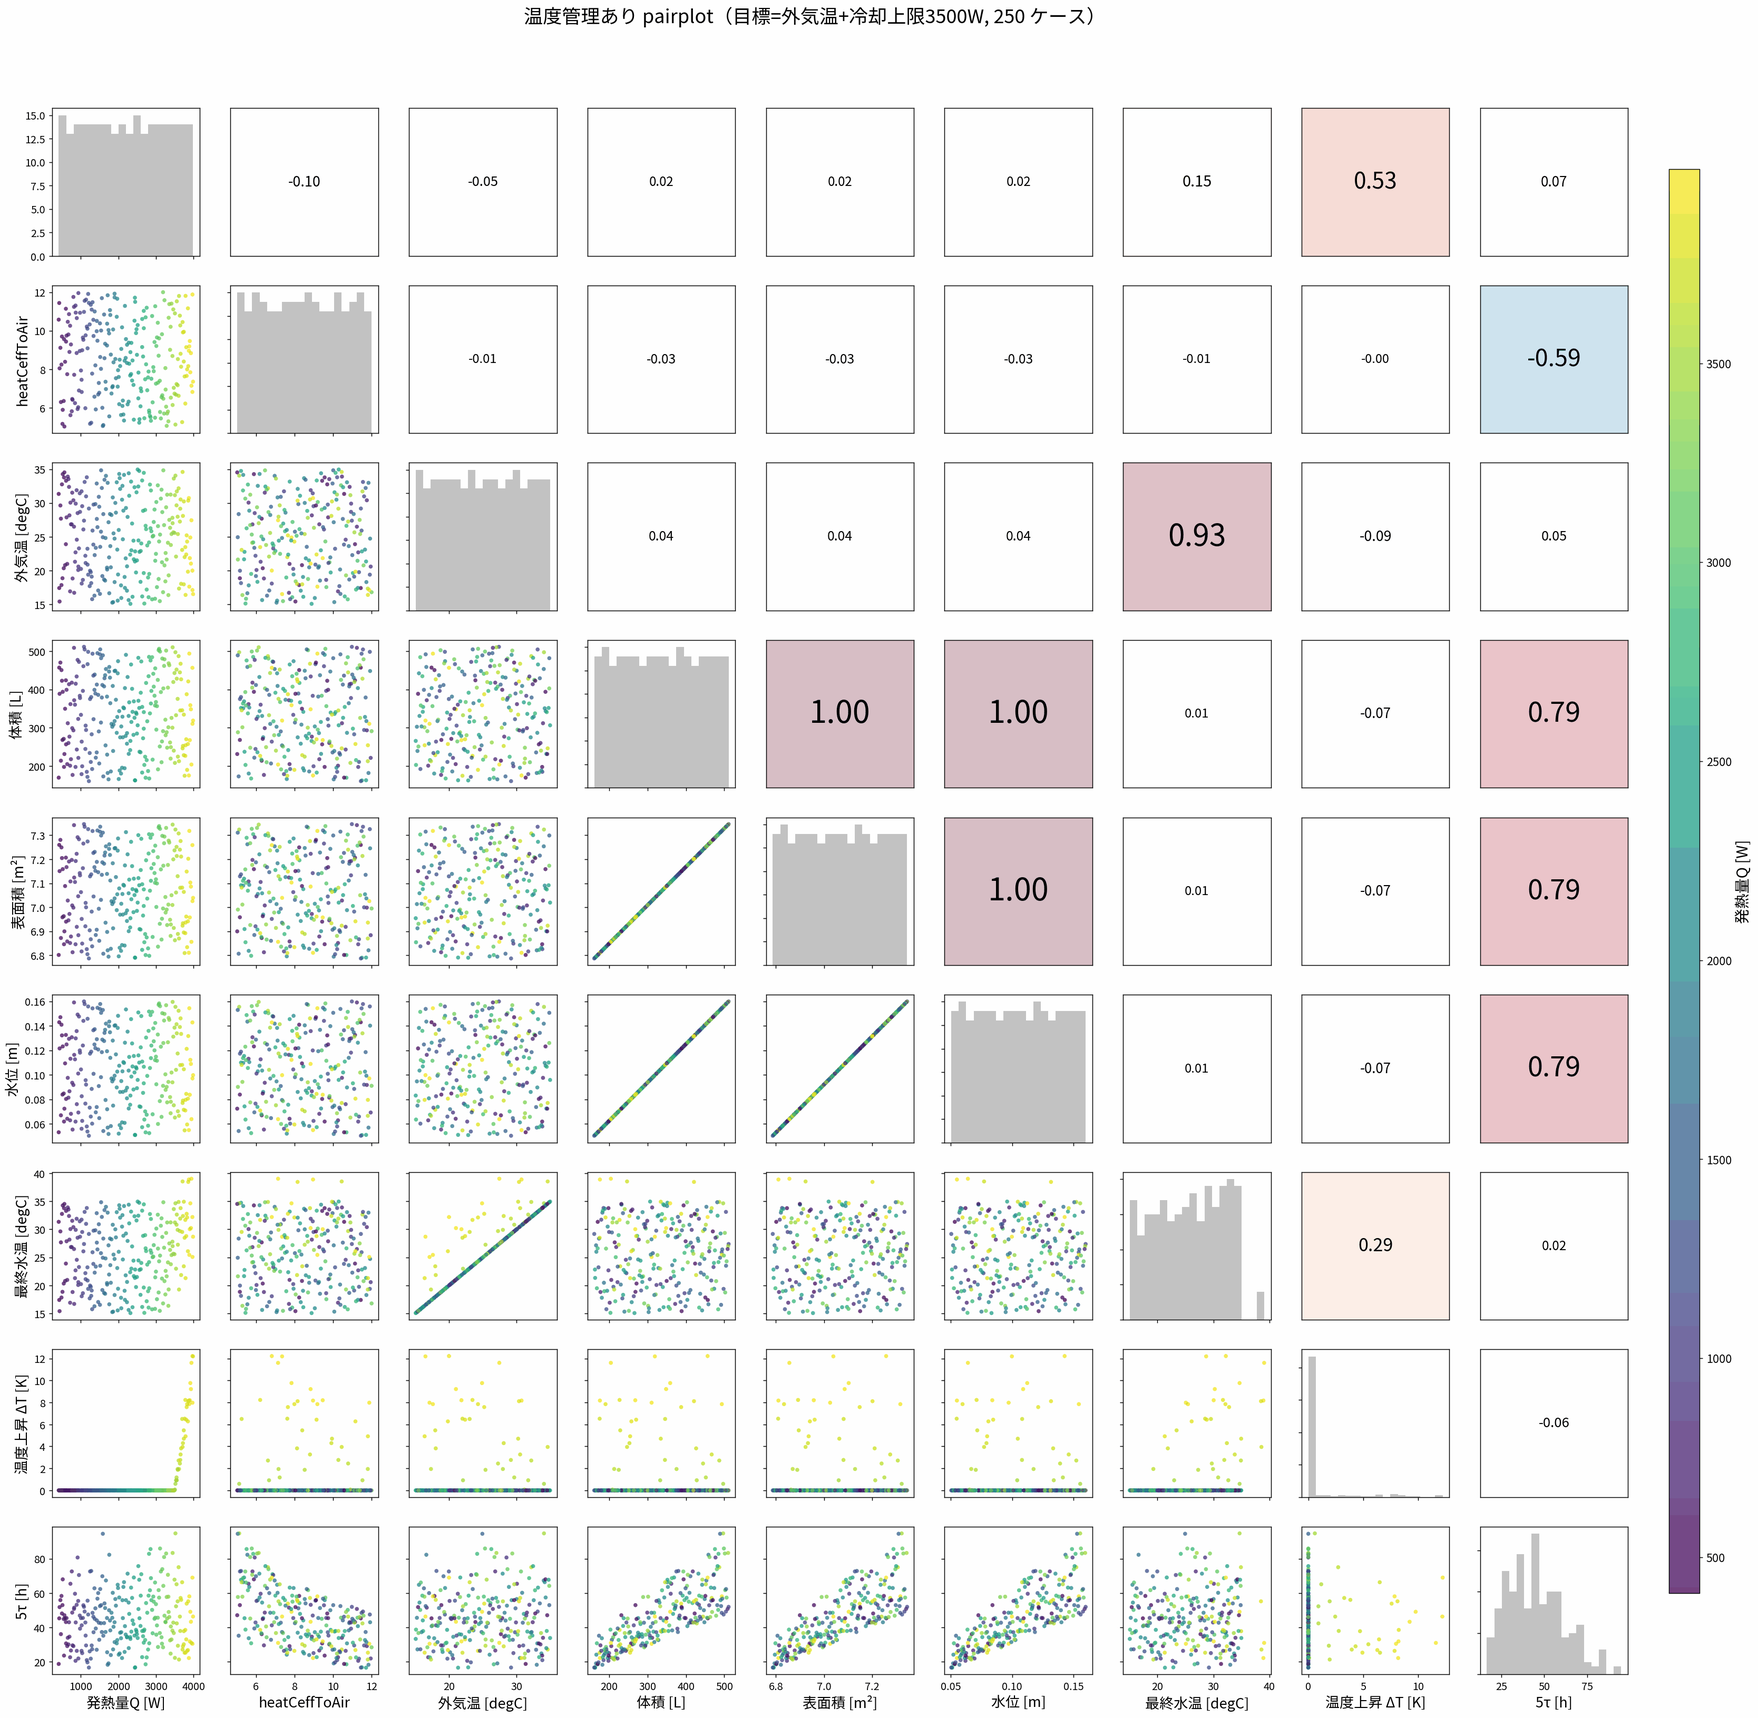
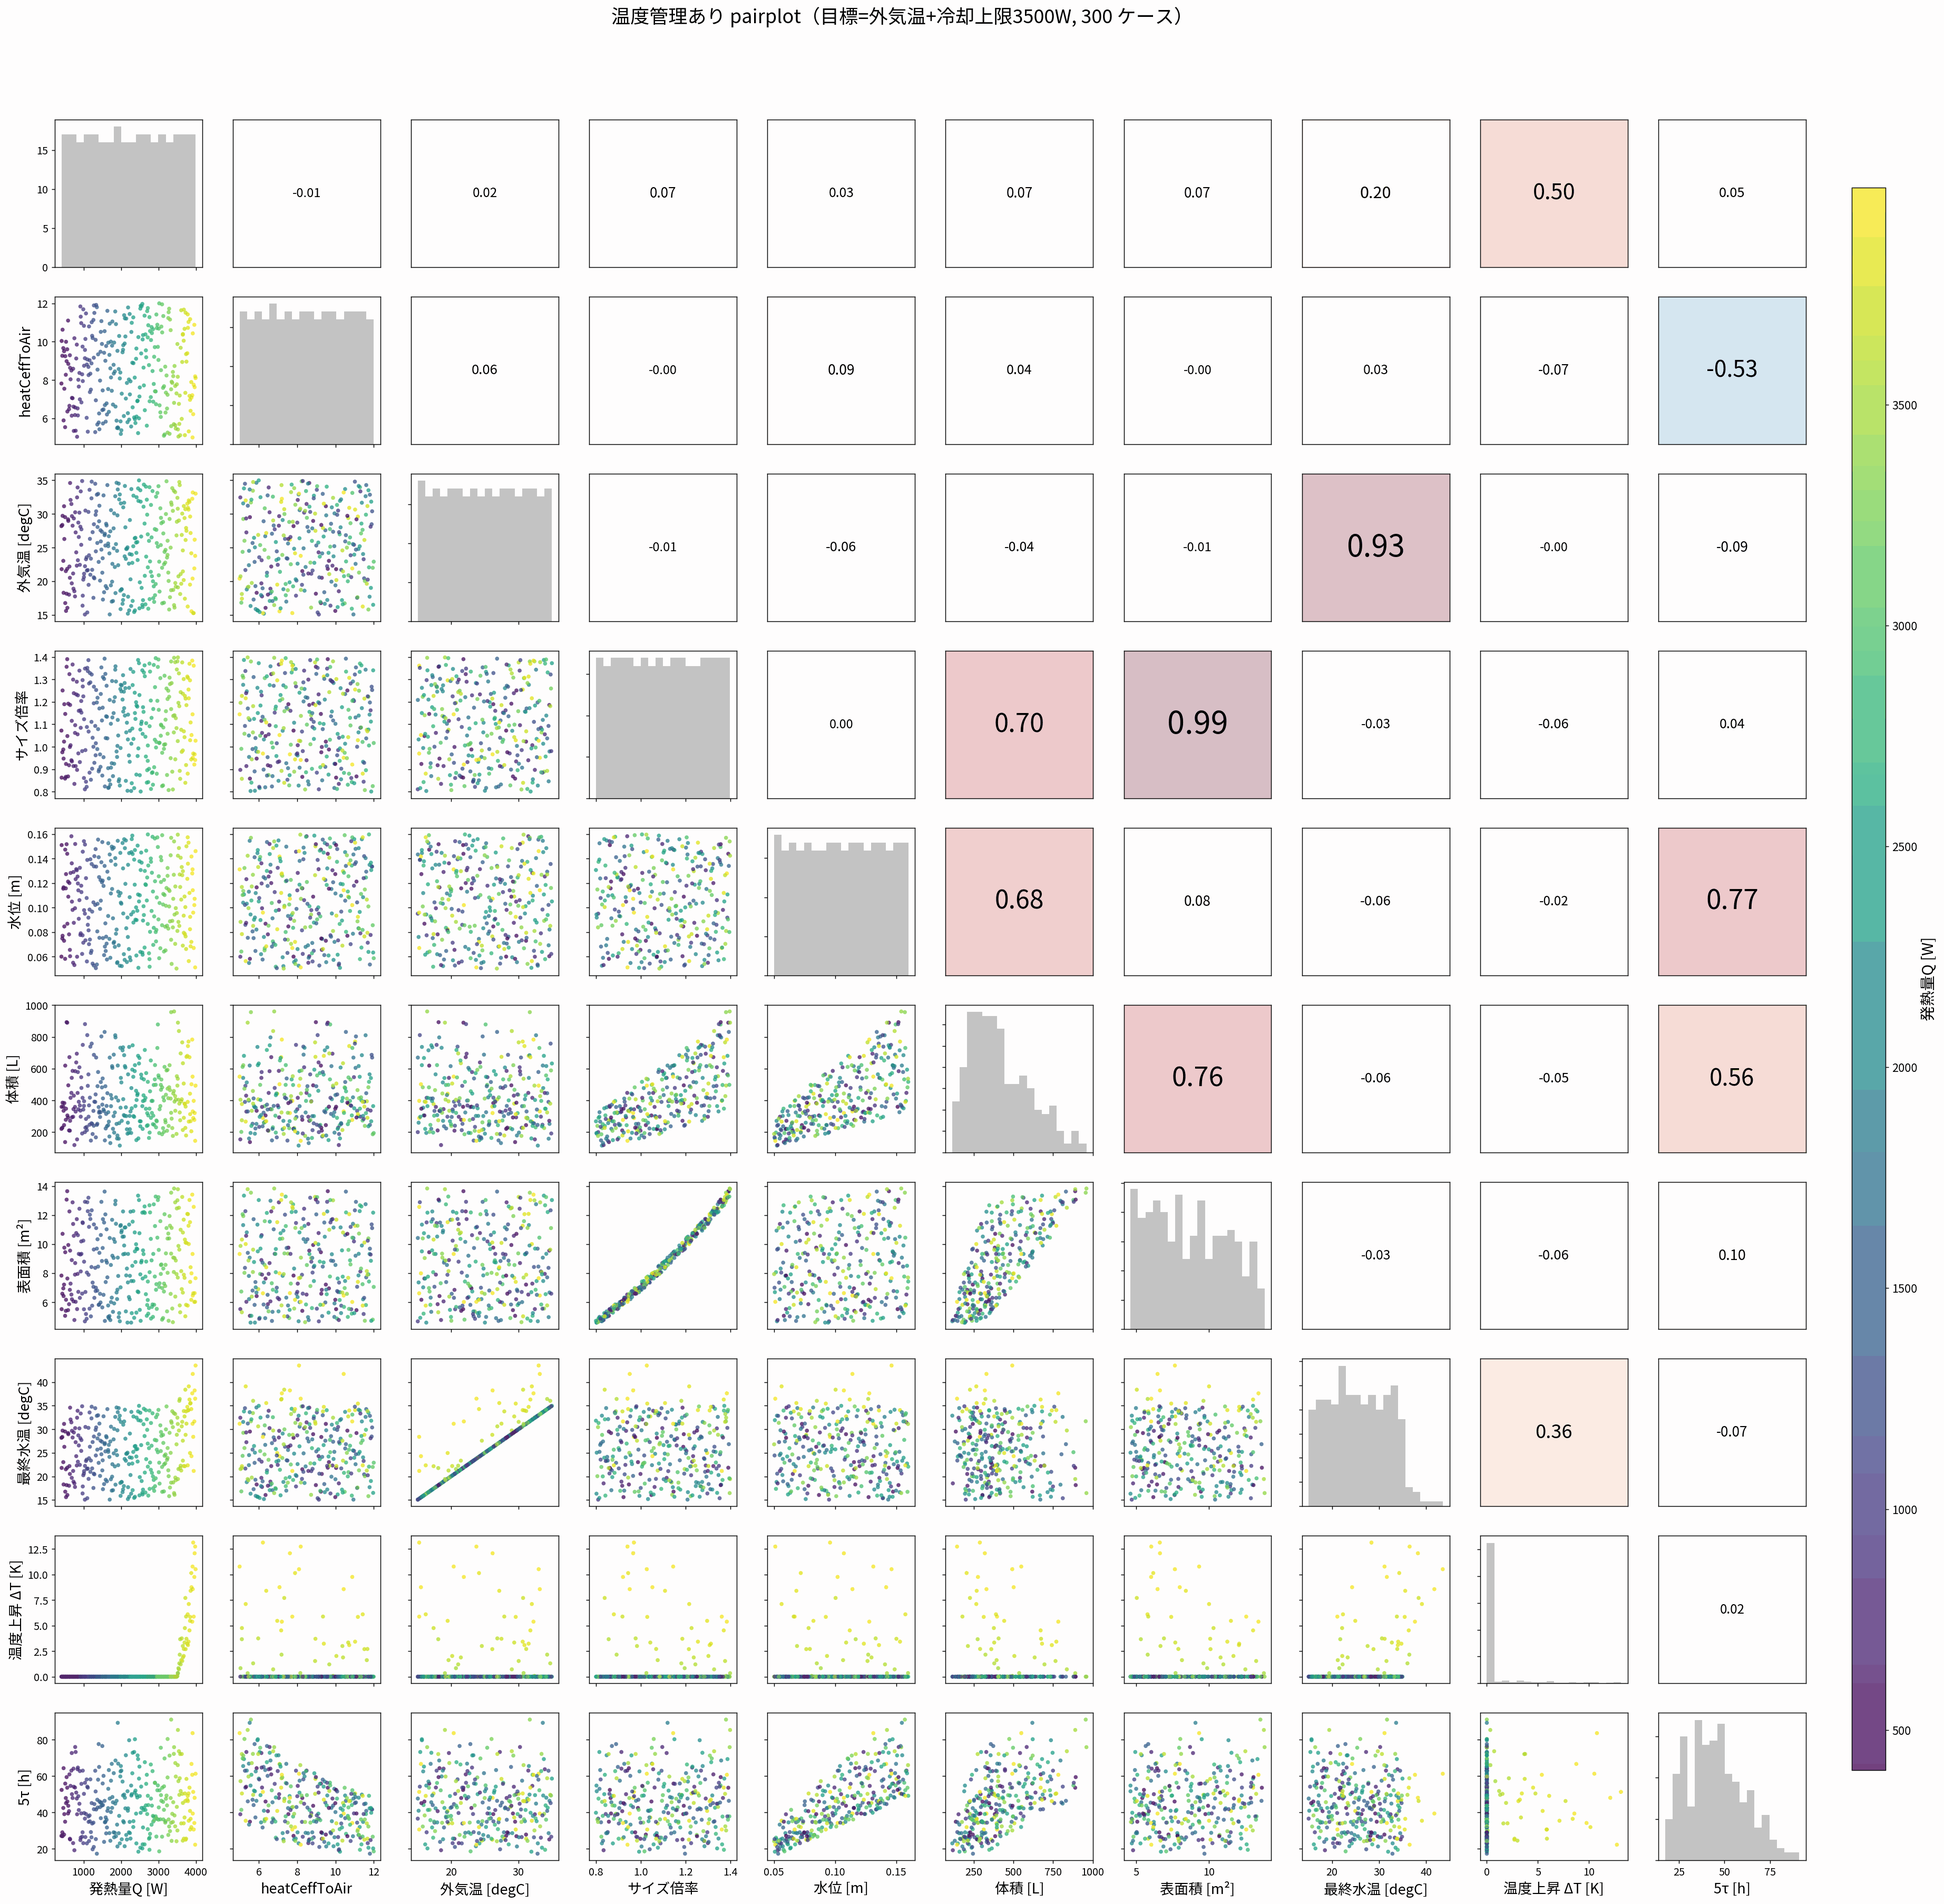
pairパラスタに サイズ倍率(Lx,Ly)を追加: 表面積↔ΔT=-0.43(負相関)が可視化
- 水位(体積/表面積/水位に効く)に加え サイズ倍率(体積/表面積に効く)を因子化。600ケース
- 表面積↑→温度上昇ΔT↓ の物理が相関で見えるように

Claude-Session: https://claude.ai/code/session_012Bb2Gqoegt25dmMh1N6dBX

diff --git a/003_tank_para/pairplot_control.py b/003_tank_para/pairplot_control.py
@@ -51,31 +51,40 @@ A2 = Lx2_1 * Ly2_1 + Lx2_2 * Ly2_2
 A3 = Lx3_1 * Ly3_1
 
 
-def ua(h_air, level, h_in=10.0, kground=80.0):
-    UA_air = h_air * (A1 + A2 + A3)
+def _A(size):
+    """size(=Lx,Ly倍率)でスケールした各タンク上面積。"""
+    return A1 * size * size, A2 * size * size, A3 * size * size
+
+
+def ua(h_air, level, size=1.0, h_in=10.0, kground=80.0):
+    a1, a2, a3 = _A(size); s = size
+    UA_air = h_air * (a1 + a2 + a3)
 
     def g(Ain, Ac, Ag):
         return 1 / (1 / (h_in * Ain) + 1 / (Ac * kground / th) + 1 / (h_air * Ag))
-    u1 = g(A1 + Ly1_1 * level, A1 + Lx1_1 * level + Ly1_1 * level, A1 + Ly1_1 * level)
-    a2in = A2 + (Ly2_1 + Lx2_1) * level
-    u2 = g(a2in, A2 + (Lx2_1 + Ly2_1) * level, a2in)
-    a3g = A3 + (Lx3_1 + Ly3_1) * level
+    u1 = g(a1 + Ly1_1 * s * level, a1 + (Lx1_1 + Ly1_1) * s * level, a1 + Ly1_1 * s * level)
+    a2in = a2 + (Ly2_1 + Lx2_1) * s * level
+    u2 = g(a2in, a2 + (Lx2_1 + Ly2_1) * s * level, a2in)
+    a3g = a3 + (Lx3_1 + Ly3_1) * s * level
     u3 = g(a3g, a3g, a3g)
     return UA_air + u1 + u2 + u3
 
 
-def cap(level):
-    return (A1 * level + A2 * level + A3 * 0.9 * level) * rho_w * cp_w
+def cap(level, size=1.0):
+    a1, a2, a3 = _A(size)
+    return (a1 * level + a2 * level + a3 * 0.9 * level) * rho_w * cp_w
 
 
-def volume_L(level):
-    return (A1 * level + A2 * level + A3 * 0.9 * level) * 1000.0   # m3 -> L
+def volume_L(level, size=1.0):
+    a1, a2, a3 = _A(size)
+    return (a1 * level + a2 * level + a3 * 0.9 * level) * 1000.0   # m3 -> L
 
 
-def area_total(level):
+def area_total(level, size=1.0):
     """放熱面積 [m2] = 上面 + 側/底(濡れ面積)。"""
-    A_top = A1 + A2 + A3
-    A_g = (A1 + Ly1_1 * level) + (A2 + (Ly2_1 + Lx2_1) * level) + (A3 + (Lx3_1 + Ly3_1) * level)
+    a1, a2, a3 = _A(size); s = size
+    A_top = a1 + a2 + a3
+    A_g = (a1 + Ly1_1 * s * level) + (a2 + (Ly2_1 + Lx2_1) * s * level) + (a3 + (Lx3_1 + Ly3_1) * s * level)
     return A_top + A_g
 
 
@@ -136,10 +145,11 @@ def main():
     args = ap.parse_args()
     n = args.n
 
-    X = lhs(n, [(400.0, 4000.0), (5.0, 12.0), (0.05, 0.16), (15.0, 35.0)])
-    Q, h_air, level, Tair = X.T
-    UA = np.array([ua(h_air[k], level[k]) for k in range(n)])
-    tau5 = np.array([5 * cap(level[k]) / UA[k] / 3600.0 for k in range(n)])
+    # 因子: 発熱量Q, heatCeffToAir, 水位level, 外気温Tair, サイズ倍率size(=Lx,Ly)
+    X = lhs(n, [(400.0, 4000.0), (5.0, 12.0), (0.05, 0.16), (15.0, 35.0), (0.8, 1.4)])
+    Q, h_air, level, Tair, size = X.T
+    UA = np.array([ua(h_air[k], level[k], size[k]) for k in range(n)])
+    tau5 = np.array([5 * cap(level[k], size[k]) / UA[k] / 3600.0 for k in range(n)])
 
     # なし: ΔT=Q/UA
     # あり: 目標=外気温。冷却上限 Qcool_max まではΔT=0、超えると ΔT=(Q-Qcool_max)/UA
@@ -150,15 +160,15 @@ def main():
     # 2条件を積む
     def stack(a_off, a_on):
         return np.concatenate([a_off, a_on])
-    V = np.array([volume_L(level[k]) for k in range(n)])
-    Ar = np.array([area_total(level[k]) for k in range(n)])
+    V = np.array([volume_L(level[k], size[k]) for k in range(n)])
+    Ar = np.array([area_total(level[k], size[k]) for k in range(n)])
     Tfin_off = Tair + dT_off     # 最終水温(絶対) = 外気温 + 温度上昇
     Tfin_on = Tair + dT_on
-    labels = ["発熱量Q [W]", "heatCeffToAir", "外気温 [degC]", "体積 [L]",
-              "表面積 [m²]", "水位 [m]", "最終水温 [degC]", "温度上昇 ΔT [K]", "5τ [h]"]
+    labels = ["発熱量Q [W]", "heatCeffToAir", "外気温 [degC]", "サイズ倍率", "水位 [m]",
+              "体積 [L]", "表面積 [m²]", "最終水温 [degC]", "温度上昇 ΔT [K]", "5τ [h]"]
 
-    data_off = np.column_stack([Q, h_air, Tair, V, Ar, level, Tfin_off, dT_off, tau5])
-    data_on = np.column_stack([Q, h_air, Tair, V, Ar, level, Tfin_on, dT_on, tau5])
+    data_off = np.column_stack([Q, h_air, Tair, size, level, V, Ar, Tfin_off, dT_off, tau5])
+    data_on = np.column_stack([Q, h_air, Tair, size, level, V, Ar, Tfin_on, dT_on, tau5])
     pairplot1(data_off, labels, Q, "発熱量Q [W]", os.path.join(IMG, "pairplot_control_off.png"),
               "温度管理なし pairplot（%d ケース, 上三角=相関係数）" % n)
     pairplot1(data_on, labels, Q, "発熱量Q [W]", os.path.join(IMG, "pairplot_control_on.png"),

diff --git a/003_tank_para/docs/README.md b/003_tank_para/docs/README.md
@@ -38,7 +38,7 @@ python param_study.py pareto --csv results.csv
 |---|---|---|
 | 因子の影響（vary_*） | 4因子 × 各120点の掃引 | 集中定数（1因子ずつ、他はフィット値固定） |
 | 影響グリッド / 目的空間 | LHS 300 点 | 集中定数 |
-| **温度管理あり/なし pairplot** | **設計点 250 × 2条件 = 500 ケース相当** | 集中定数（LHS: Q, heatCeffToAir, 水位, 外気温） |
+| **温度管理あり/なし pairplot** | **設計点 300 × 2条件 = 600 ケース相当** | 集中定数（LHS: Q, heatCeffToAir, 水位, 外気温, サイズ倍率） |
 | 実機OM あり/なし 比較 | 2 モデル（各 stopTime=40h） | OpenModelica |
 | 実機OM パラスタ（run_study） | LHS 30 点（既定） | OpenModelica |
 
@@ -52,6 +52,11 @@ python param_study.py pareto --csv results.csv
 
 温度管理なし（赤）:
 ![温度管理なし pairplot](img/pairplot_control_off.png)
+
+> **表面積とΔT**: 因子に **サイズ倍率(Lx,Ly)** を加えたので表面積が独立に変化する。
+> なし側で **表面積↔ΔT=−0.43（負）**（放熱面積が大きいほど温度上昇が小さい＝ΔT=Q/UA）。
+> 水位は主に体積・5τ（熱容量）に効き、サイズは面積・ΔT に効く。
+
 
 温度管理あり（青, 目標=外気温）:
 ![温度管理あり pairplot](img/pairplot_control_on.png)
